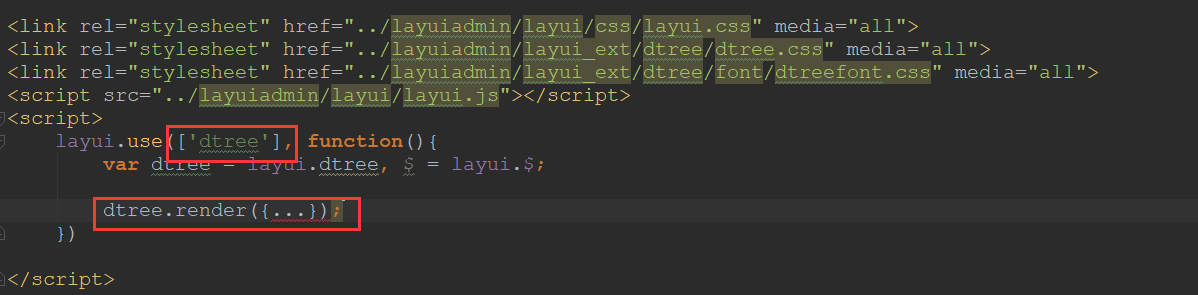
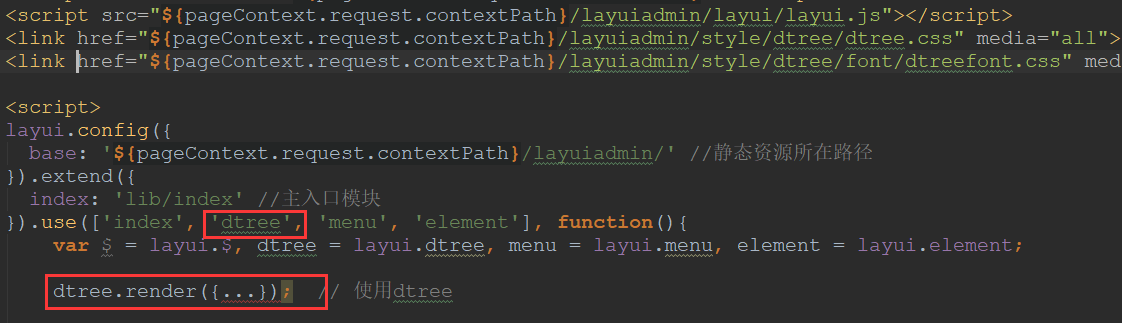
v2.5.0 beta

diff --git a/src/main/webapp/doc/basicDoc.html b/src/main/webapp/doc/basicDoc.html
@@ -24,6 +24,7 @@
 			
 			<div class="layui-fluid">
 				<blockquote class="layui-elem-quote">layui应用日益广泛的情况下，人们对"树"这种特殊数据结构的需求日益增多，而layui-dtree（谐音：layui的树）的出现，极大程度的满足了各类人群对于树的不同追求。dtree发展到现在，可以总结为6大块核心功能：异步加载、复选框、菜单栏、工具栏、iframe加载、定制化换肤等，然后的话你所见到市面上开源树的功能，dtree几乎全部囊括在内（除了拖拽），只待你一一发掘，让她在你的项目中发光。</blockquote>
+				<blockquote class="layui-elem-quote">文档更新了部分v2.5.0版本新增的内容，但v2.5.0版本尚未正式发布，敬请期待！</blockquote>
 				<blockquote class="layui-elem-quote">模块加载名称：dtree</blockquote>
 			</div>
 			

diff --git a/src/main/webapp/log/log.html b/src/main/webapp/log/log.html
@@ -32,7 +32,7 @@
 					<li class="layui-timeline-item">
 						<i class="layui-icon layui-timeline-axis">&#xe63f;</i>
 						<div class="layui-timeline-content layui-text">
-							<h3 class="layui-timeline-title" id="012">v2.5.0(2019/？/？)【大版本】【修复：2，优化：3，新增：44】<a href="#" class="layui-btn layui-btn-sm layui-btn-normal">下载</a></h3>
+							<h3 class="layui-timeline-title" id="012">v2.5.0(2019/？/？)【大版本】【修复：2，优化：3，新增：44】<a href="#" class="layui-btn layui-btn-sm layui-btn-normal">尚未发布，敬请期待！</a></h3>
 							<ul>
 								<li>【修复】toolbar模块修复：自定义的toolbar的回调函数的第二个$div参数修复，现在可以取到值</li>
 								<li>【修复】toolbar模块修复：内置函数：changeTreeNodeEdit中的title未定义的问题。</li>

diff --git a/src/main/webapp/case/checkbar.html b/src/main/webapp/case/checkbar.html
@@ -237,7 +237,12 @@
 									  elem: "#checkbarTreea",
 									  url: "../json/case/checkbarTree1.json",
 									  checkbar: true,
-									  checkbarData: "choose" // 记录选中（默认）， "change"：记录变更， "all"：记录全部， "halfChoose"："记录选中和半选"
+									  checkbarData: "choose" // 记录选中（默认）， "change"：记录变更， "all"：记录全部， "halfChoose"："记录选中和半选（V2.5.0新增）"
+									});
+									
+									$("#checkbarTreea_btna").click(function(){
+									  var params = dtree.getCheckbarNodesParam("checkbarTreea");
+									  layer.msg(JSON.stringify(params));
 									});
 								</pre>
 							</div>

diff --git a/src/main/webapp/layuiadmin/layuiadmin.html b/src/main/webapp/layuiadmin/layuiadmin.html
@@ -64,6 +64,7 @@
 							<ul>
 								<li>引入依赖layui的css,js，引入dtree依赖的css（css位置可以自定义）（如果需要移动font文件夹，则该文件夹需要整体移动）</li>
 								<li>通过上述的步骤，即可直接在layui.use中使用dtree了。</li>
+								<li>注意：必须先引入index模块，才能直接使用dtree模块，index模块不能省略。</li>
 								<li><img src="img/4.png"/></li>
 							</ul>
 						</div>

diff --git a/src/main/webapp/case/common.html b/src/main/webapp/case/common.html
@@ -312,8 +312,8 @@
 									  private String parentId;
 									  /** 节点名称*/
 									  private String title;
-									  /** 层级*/
-									  private String level;
+									  /** 是否展开节点*/
+									  private Boolean spread;
 									  /** 是否最后一级节点*/
 									  private Boolean isLast;
 									  /** 自定义图标class*/
